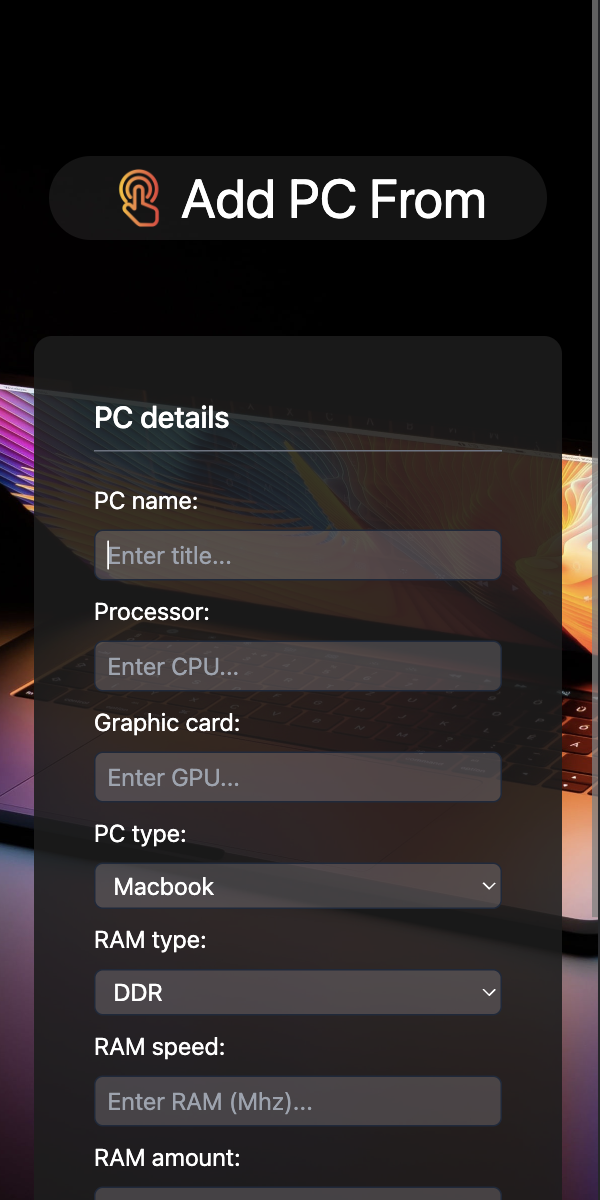
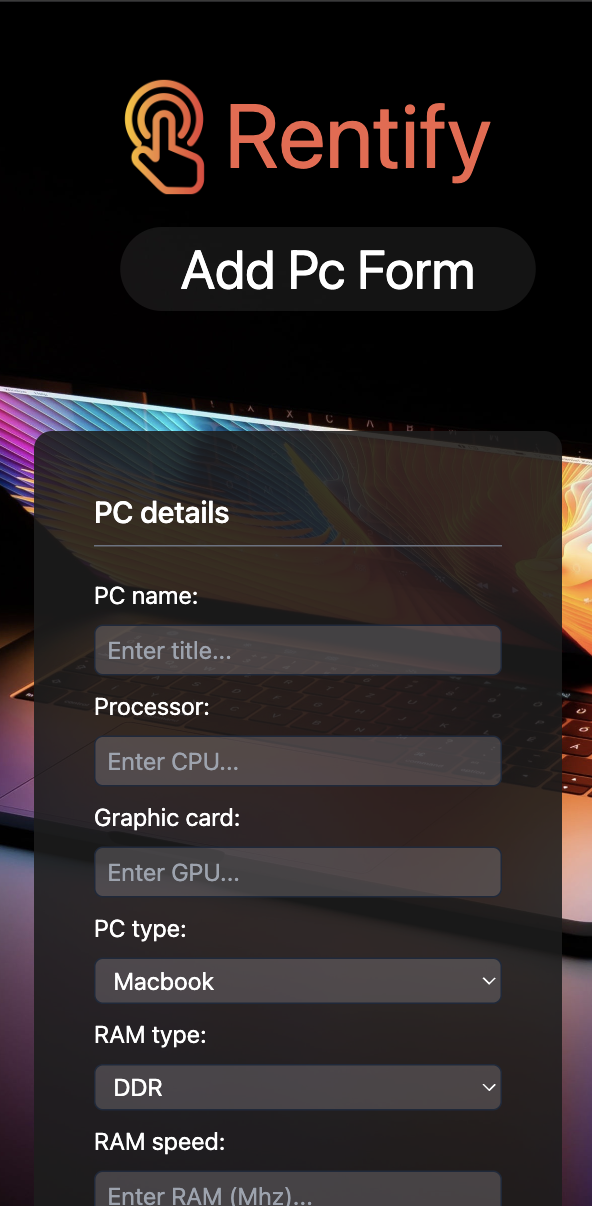
readme

diff --git a/frontend/src/AddPc/AddPcForm.jsx b/frontend/src/AddPc/AddPcForm.jsx
@@ -155,9 +155,12 @@ export default function AddPcForm(){
 
     return (
         <div className="add-pc-bg flex flex-col items-center overflow-y-scroll pt-10 px-6">
-            <div className="flex items-center gap-2 my-16 bg-[#adaaaa1e] rounded-full px-10 py-2">
-                <img className="w-[40px]" src={clickImage} alt="click" />
-                <h1 className="text-4xl text-[#ffffff]">Add PC From</h1>
+             <div className='flex align-center mt-10'> 
+				<img className="w-[80px] md:mt-0 mb-5" src={clickImage} alt="click" />
+				<p className='text-[#f2634a] text-6xl mt-2'>Rentify</p>
+			</div>
+            <div className="flex items-center gap-2 mb-20 bg-[#adaaaa1e] rounded-full px-10 py-2 ms-10">
+                <h1 className="text-4xl text-[#ffffff]">Add Pc Form</h1>
             </div>
             <div className="min-w-[300px] sm:min-w-[500px] bg-[#1d1c1ce0] rounded-xl text-[white] p-10">
             {/* {message && (
